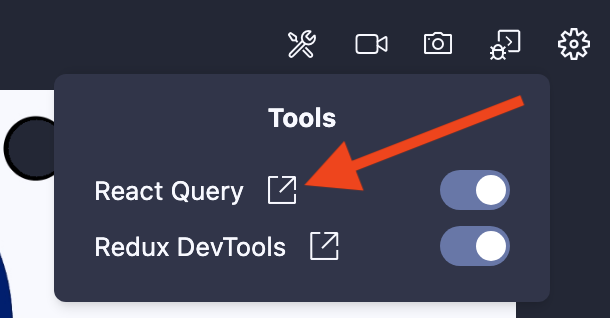
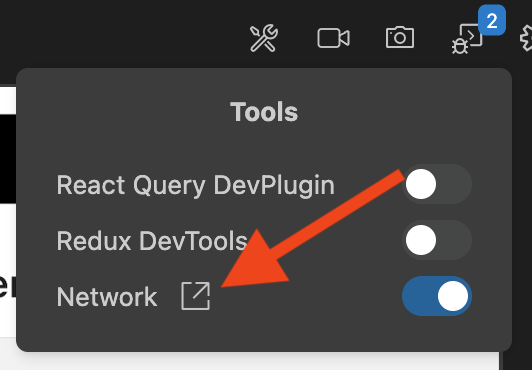
Update devtools docs after changes in Radon 1.3 (#952)

diff --git a/packages/docs/docs/features/dev-tools.md b/packages/docs/docs/features/dev-tools.md
@@ -4,11 +4,13 @@ title: Dev Tools (experimental)
 sidebar_position: 7
 ---
 
-Radon IDE 1.2 comes with an experimental support for launching Dev Tools as separate panels withing VSCode or Cursor.
+Radon IDE comes with an experimental support for launching Dev Tools as separate panels withing VSCode or Cursor.
 
-Currently, only limited set of tools is available, and the existing ones only integrate with the [Expo Devtools Plugins](https://docs.expo.dev/debugging/devtools-plugins/) and therefore require Expo Devtools Plugins to be setup for each individual tool to work.
+Currently, only limited set of tools is available.
+The Network Inspector and Redux tools are built into the Radon IDE and doesn't require any additional configuration.
+The remaining tools rely on the [Expo Devtools Plugins](https://docs.expo.dev/debugging/devtools-plugins/) being setup for those individual tools to work (wee instructions below).
 
-When the IDE detects that a certain tool is available and configured properly (see below for details on configuring individual tools), it will be listed in the tools menu where you can turn it on and off:
+When the IDE detects that a specific tool is available and configured properly (see below for details on configuring individual tools), it will be listed in the tools menu where you can turn it on and off:
 <img width="350" src="/img/docs/ide_devtools_menu.png" className="shadow-image" />
 
 When the tool is enabled in your project, you will get a new panel opened in VSCode:
@@ -22,14 +24,33 @@ Tool on/off setting is persisted locally for the scope of your project (VSCode o
 Therefore when you open the project next time in the IDE, the tool panel will launch automatically.
 It will also be kept open when you switch between different devices across that project.
 
+## Network Inspector
+
+This panel doesn't require any additional configuration and should be available as soon as your app is launched.
+Network panel will capture and list all requests triggeded by the JavaScript code (with HXR / fetch or wrappers like Axios/Apollo etc).
+Images or websocket connections aren't currently supported and won't show up.
+
+<img width="700" src="/img/docs/ide_devtools_network_inspector.png" className="shadow-image" />
+
+## Redux
+
+This plugin doesn't require any additional configutation.
+If your app uses Redux, the IDE will automatically detect that, and Redux plugin will be listed in the Dev Tools menu where you can enable it.
+Once enabled you will be able to use the official Redux UI (same one as the Redux Chrome extension) from within your editor panel:
+
+<img width="700" src="/img/docs/ide_devtools_redux.png" className="shadow-image" />
+
 ## Redux (via Expo Devtools Plugin)
 
-In order to set it up, follow the instructions from [this Expo guide on Redux Devtool Plugin](https://docs.expo.dev/debugging/devtools-plugins/#redux).
+We recommend that you use the built-in Redux dev tool as described in the above section which requires no extra setup.
+However, if your workflow rely on using Expo CLI and you need to have the [Expo Redux Devtool Plugin](https://docs.expo.dev/debugging/devtools-plugins/#redux) setup in your project, IDE will automatically detect that and will use the Redux devtools via the installed plugin.
+There should be no difference as far as functionality in each of those options, so it is only a matter of convinience.
 
 <img width="700" src="/img/docs/ide_devtools_expo_redux.png" className="shadow-image" />
 
 ## React Query (via Expo Devtools Plugin)
 
+React Query plugin only works when installed and configured via the Expo Plugin.
 Follow the setup instructions from [React Query Expo Devtool Plugin website](https://docs.expo.dev/debugging/devtools-plugins/#react-query).
 
 <img width="700" src="/img/docs/ide_devtools_expo_reactquery.png" className="shadow-image" />
